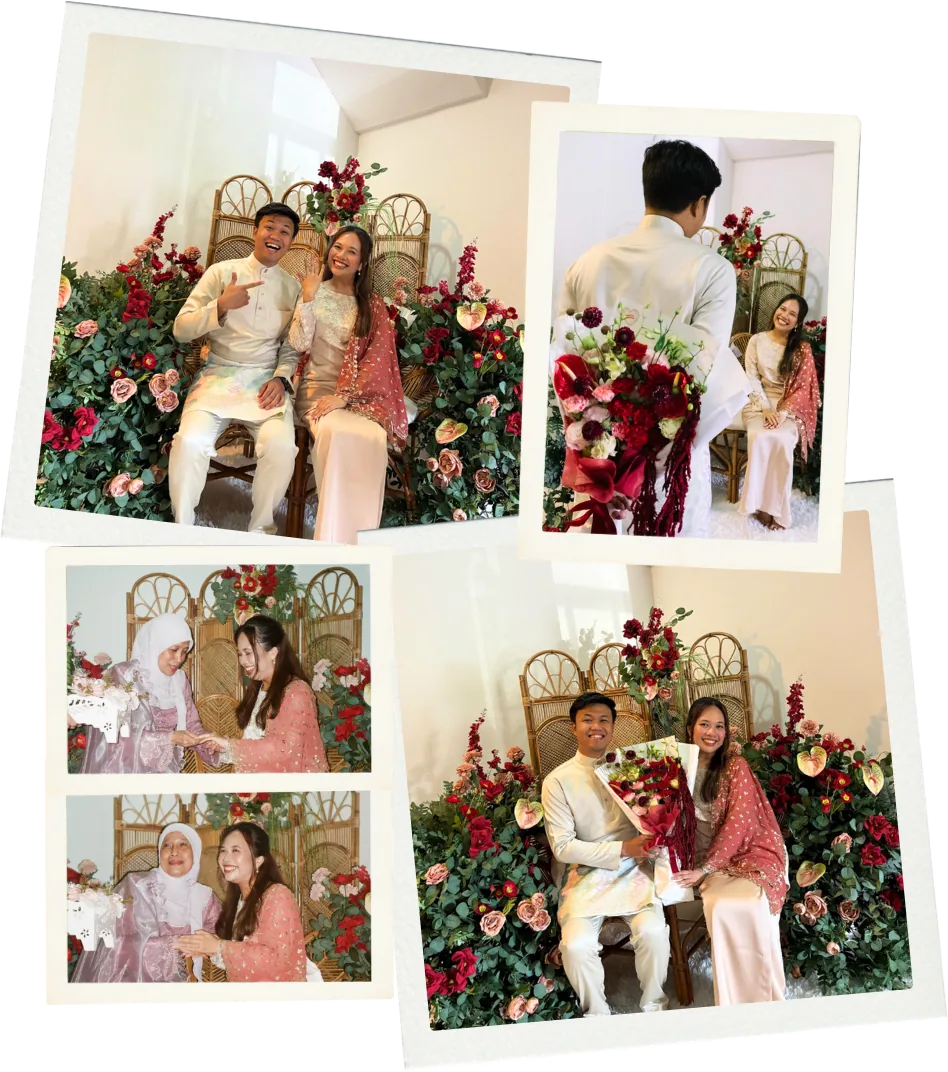
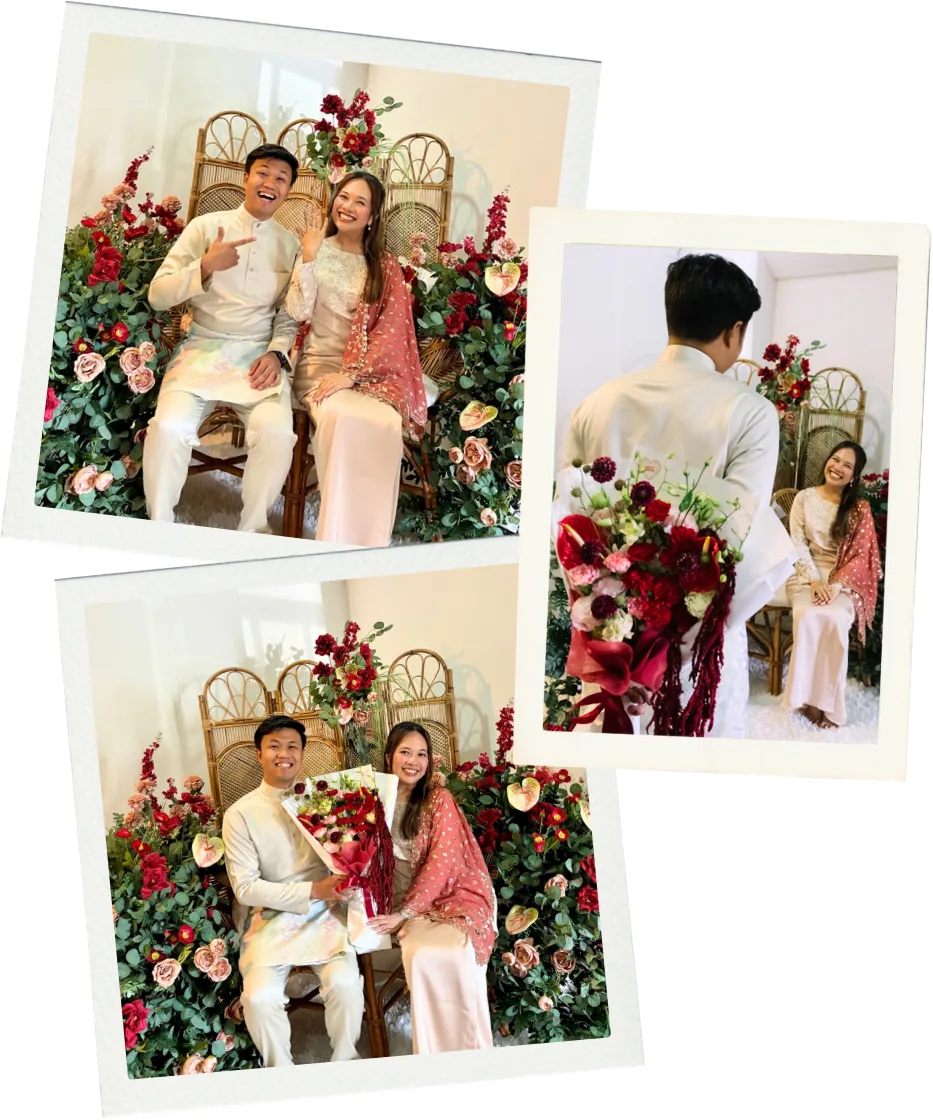
Swap the couple collage for the three-photo cut
IMG_4512 replaces the five-photo arrangement. Same treatment as the one
it supersedes: transparent master, cropped to the artwork's bounding box
so the section's own padding is the only thing setting the space around
it, then webp q82 — 2.2MB png in, 150KB out.

933x1120 after the crop against the old 948x1072, so the plate is a
little taller in the column. Nothing in the layout is pinned to the
ratio: the photo is sized by width off --card-w with height auto, and
the measurements hold at every breakpoint from 320 to 1920.

The previous master stays recoverable at 57dbe01, per the note at the
top of to-webp.mjs.

diff --git a/components/sections/CouplePortraitSection.tsx b/components/sections/CouplePortraitSection.tsx
@@ -29,7 +29,7 @@ export default function CouplePortraitSection({ style }: CouplePortraitSectionPr
 
         <Image
           src={couplePortrait}
-          alt="A collage of photographs from the couple's engagement, seated together among red and pink floral arrangements"
+          alt="Three photographs from the couple's engagement, seated together among red and pink floral arrangements"
           className={styles.portrait}
           sizes="(max-width: 767px) 92vw, (max-width: 1024px) 78vw, 38vw"
         />
